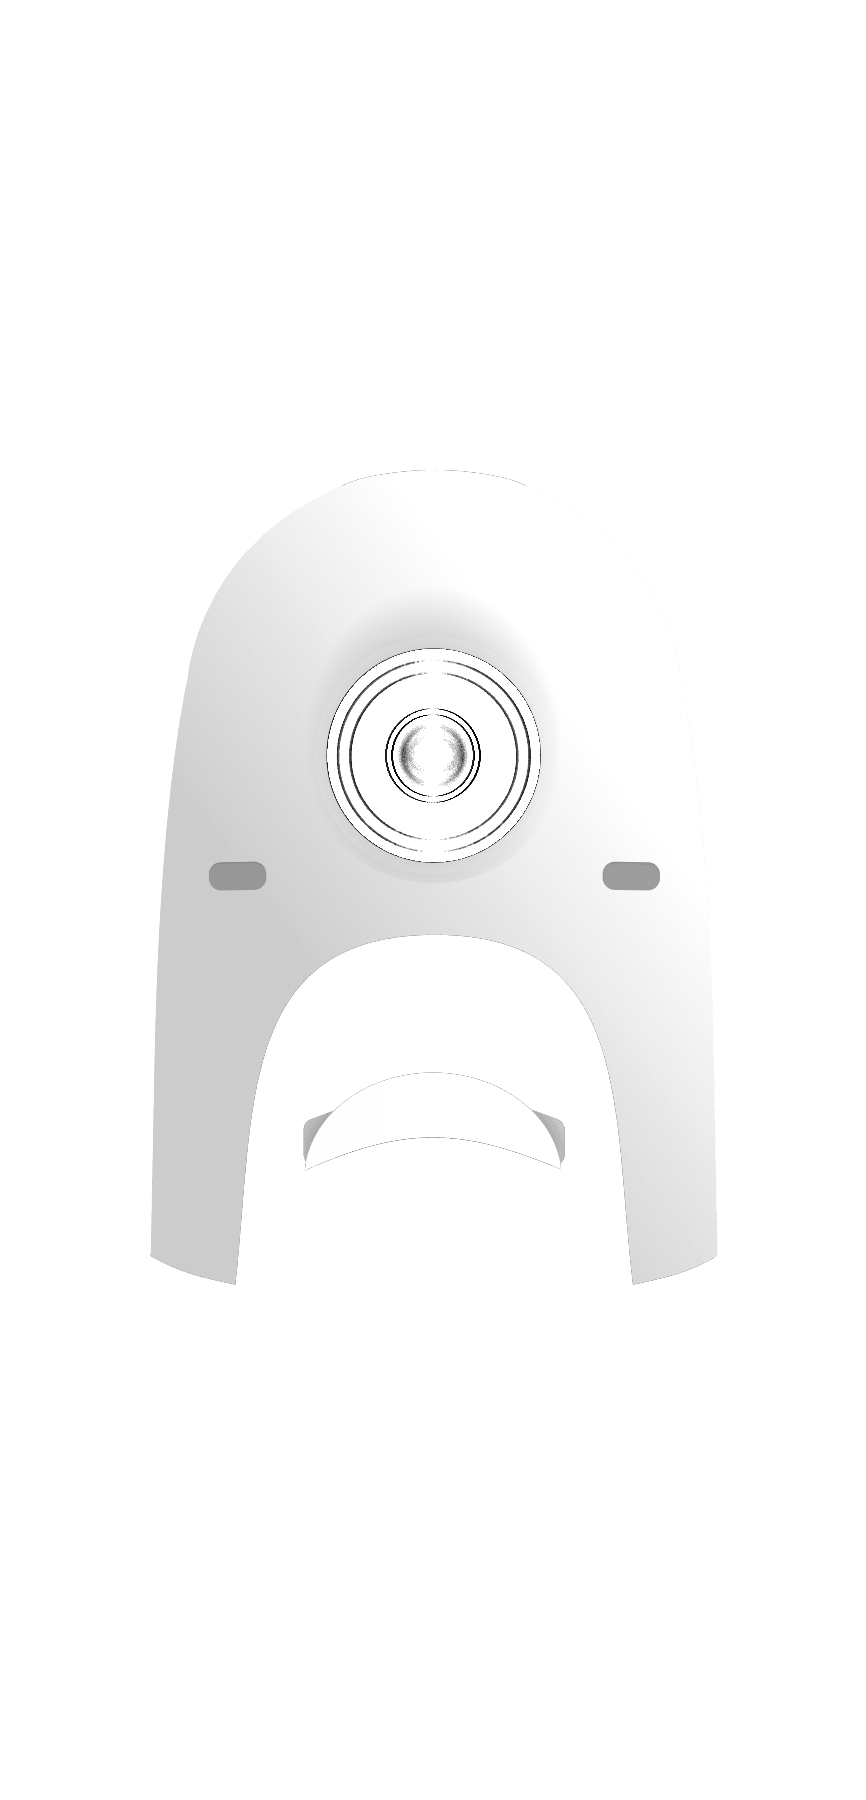
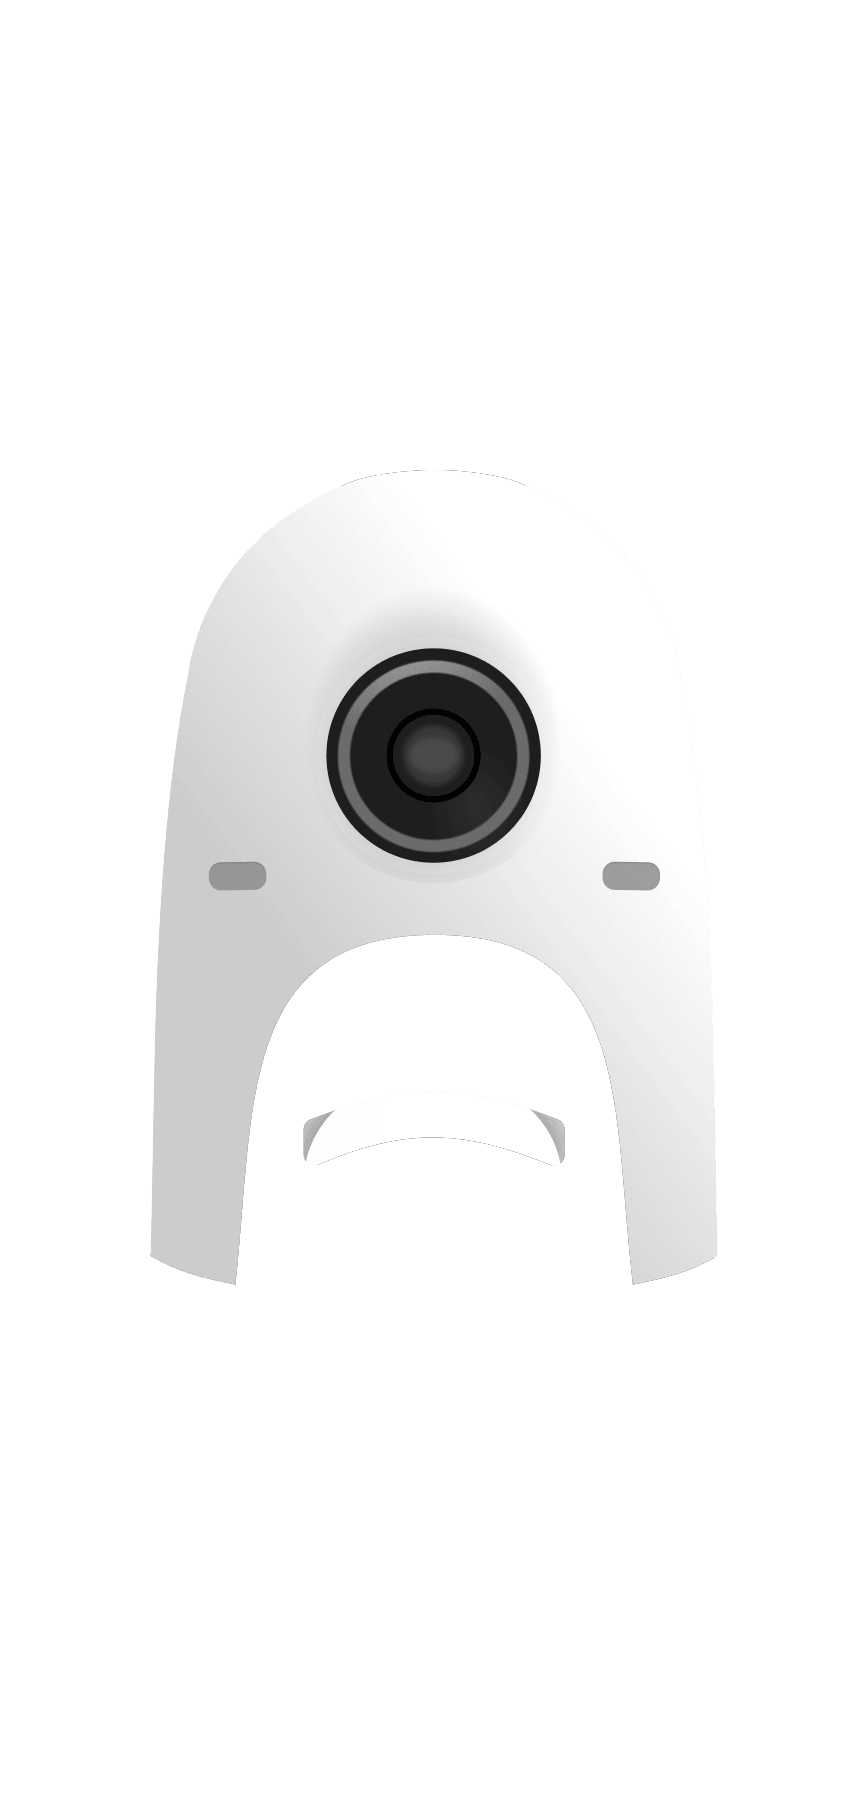
refine(app): upgrade front artwork detail (librescoot-jluu)

Changed region(s): [[0.3741, 0.3422, 0.6236, 0.4978]]

diff --git a/test/ui/scooter_side_visual_test.dart b/test/ui/scooter_side_visual_test.dart
@@ -90,6 +90,34 @@ void main() {
     expect(find.byKey(const ValueKey('custom-paint-matte-layer')), findsNothing);
   });
 
+  testWidgets('keeps lights and details above the matte finish', (tester) async {
+    await tester.pumpWidget(
+      const MaterialApp(
+        home: RenderedScooterArtwork(
+          view: ScooterArtworkView.front,
+          color: '#202020',
+          matte: true,
+          height: 160,
+        ),
+      ),
+    );
+
+    final stack = tester.widget<Stack>(
+      find.descendant(
+        of: find.byType(RenderedScooterArtwork),
+        matching: find.byType(Stack),
+      ),
+    );
+    final matteIndex = stack.children.indexWhere(
+      (child) => child.key == const ValueKey('custom-paint-matte-layer'),
+    );
+    final detailsIndex = stack.children.indexWhere(
+      (child) => child.key == const ValueKey('scooter-artwork-details'),
+    );
+    expect(matteIndex, greaterThanOrEqualTo(0));
+    expect(detailsIndex, greaterThan(matteIndex));
+  });
+
   testWidgets('can omit the independently rendered ground shadow', (tester) async {
     await tester.pumpWidget(
       const MaterialApp(

diff --git a/lib/ui/widgets/rendered_scooter_artwork.dart b/lib/ui/widgets/rendered_scooter_artwork.dart
@@ -38,13 +38,16 @@ class RenderedScooterArtwork extends StatelessWidget {
             key: const ValueKey('scooter-ground-shadow'),
             child: _image('images/scooter/${_prefix}_shadow.png'),
           ),
-        _image('images/scooter/${_prefix}_base.png'),
         Positioned.fill(
           key: ValueKey(matte ? 'custom-paint-matte-layer' : 'custom-paint-gloss-layer'),
           child: ColorFiltered(
             colorFilter: ColorFilter.mode(_paintColor, BlendMode.modulate),
             child: _image('images/scooter/${_prefix}_${matte ? 'matte' : 'gloss'}.png'),
           ),
+        ),
+        KeyedSubtree(
+          key: const ValueKey('scooter-artwork-details'),
+          child: _image('images/scooter/${_prefix}_base.png'),
         ),
       ],
     );

diff --git a/tool/build_scooter_artwork.py b/tool/build_scooter_artwork.py
@@ -15,13 +15,61 @@ from PIL import Image
 
 SIZES = {"front": (866, 1800), "side": (2110, 1738)}
 SOURCE_COLORS = {"matte": "#A4A4A4", "gloss": "#F9F9F9"}
+FRONT_MASTER_SIZE = (866, 1668)
+FRONT_MASTER_TOP = 86
 
 
 def rgba(path: Path) -> np.ndarray:
     return np.asarray(Image.open(path).convert("RGBA"), dtype=np.float32)
 
 
+def pad_front_master(image: np.ndarray) -> np.ndarray:
+    padded = np.zeros((SIZES["front"][1], SIZES["front"][0], 4), dtype=image.dtype)
+    padded[FRONT_MASTER_TOP : FRONT_MASTER_TOP + FRONT_MASTER_SIZE[1]] = image
+    return padded
+
+
+def render_svg_elements(
+    tree: ET.ElementTree,
+    elements: list[ET.Element],
+    size: tuple[int, int],
+) -> np.ndarray:
+    root = copy.deepcopy(tree.getroot())
+    definitions = next(child for child in root if child.tag.rsplit("}", 1)[-1] == "defs")
+    for child in list(root):
+        root.remove(child)
+    for element in elements:
+        root.append(copy.deepcopy(element))
+    root.append(definitions)
+
+    with tempfile.TemporaryDirectory() as temporary:
+        svg = Path(temporary) / "selection.svg"
+        png = Path(temporary) / "selection.png"
+        ET.ElementTree(root).write(svg, encoding="utf-8", xml_declaration=True)
+        subprocess.run(
+            ["rsvg-convert", "-w", str(size[0]), "-h", str(size[1]), "-o", str(png), str(svg)],
+            check=True,
+        )
+        return rgba(png)
+
+
+def front_master_masks(source: Path) -> tuple[np.ndarray, np.ndarray]:
+    tree = ET.parse(source / "front_master.svg")
+    children = list(tree.getroot())
+    body = copy.deepcopy(children[26])
+    body.set("fill", "white")
+    body.attrib.pop("style", None)
+    fender = copy.deepcopy(list(children[39])[0])
+    fender.set("fill", "white")
+    paint = render_svg_elements(tree, [body, fender], FRONT_MASTER_SIZE)
+    foreground = render_svg_elements(tree, children[42:52], FRONT_MASTER_SIZE)
+    return pad_front_master(paint)[:, :, 3] / 255, pad_front_master(foreground)[:, :, 3] / 255
+
+
 def paint_alpha(source: Path, view: str) -> np.ndarray:
+    if view == "front" and (source / "front_master.svg").exists():
+        return front_master_masks(source)[0]
+
     tree = ET.parse(source / f"{view}_6.svg")
     root = tree.getroot()
     definitions = next(child for child in root if child.tag.rsplit("}", 1)[-1] == "defs")
@@ -63,14 +111,15 @@ def paint_alpha(source: Path, view: str) -> np.ndarray:
 
 
 def shadow_layer(source: Path, view: str, destination: Path) -> np.ndarray:
-    tree = ET.parse(source / f"{view}_6.svg")
+    use_master = view == "front" and (source / "front_master.svg").exists()
+    tree = ET.parse(source / ("front_master.svg" if use_master else f"{view}_6.svg"))
     root = tree.getroot()
     children = list(root)
     for child in children:
         if child is not children[0] and child.tag.rsplit("}", 1)[-1] != "defs":
             root.remove(child)
 
-    width, height = SIZES[view]
+    width, height = FRONT_MASTER_SIZE if use_master else SIZES[view]
     with tempfile.TemporaryDirectory() as temporary:
         shadow_svg = Path(temporary) / "shadow.svg"
         tree.write(shadow_svg, encoding="utf-8", xml_declaration=True)
@@ -90,7 +139,11 @@ def shadow_layer(source: Path, view: str, destination: Path) -> np.ndarray:
         )
         rendered = rgba(rendered_shadow)
 
-    reference = rgba(source / f"{view}_6.png")
+    if use_master:
+        rendered = pad_front_master(rendered)
+        reference = pad_front_master(rgba(source / "front_master@2x.png"))
+    else:
+        reference = rgba(source / f"{view}_6.png")
     visible = (reference[:, :, 3] <= rendered[:, :, 3] + 5) & (rendered[:, :, 3] > 0)
     shadow = np.zeros_like(reference)
     shadow[visible] = reference[visible]
@@ -99,9 +152,14 @@ def shadow_layer(source: Path, view: str, destination: Path) -> np.ndarray:
 
 
 def tone_layer(source: Path, view: str, finish: str, alpha: np.ndarray) -> np.ndarray:
-    source_id = 3 if finish == "matte" else 1
-    image = rgba(source / f"{view}_{source_id}.png")
-    color = SOURCE_COLORS[finish]
+    use_master = view == "front" and finish == "matte" and (source / "front_master@2x.png").exists()
+    if use_master:
+        image = pad_front_master(rgba(source / "front_master@2x.png"))
+        color = "#2F2F2F"
+    else:
+        source_id = 3 if finish == "matte" else 1
+        image = rgba(source / f"{view}_{source_id}.png")
+        color = SOURCE_COLORS[finish]
     rgb = np.array([int(color[index : index + 2], 16) for index in (1, 3, 5)], dtype=np.float32)
     reference_luminance = np.dot(rgb, [0.2126, 0.7152, 0.0722])
     luminance = np.dot(image[:, :, :3], [0.2126, 0.7152, 0.0722])
@@ -118,8 +176,14 @@ def build_view(source: Path, output: Path, view: str) -> None:
     shadow_path = output / f"custom_{view}_shadow.png"
     shadow = shadow_layer(source, view, shadow_path)
 
-    base = rgba(source / f"{view}_1.png")
-    base[:, :, 3] *= 1 - alpha
+    use_master = view == "front" and (source / "front_master@2x.png").exists()
+    if use_master:
+        base = pad_front_master(rgba(source / "front_master@2x.png"))
+        foreground_alpha = front_master_masks(source)[1]
+        base[:, :, 3] *= 1 - alpha * (1 - foreground_alpha)
+    else:
+        base = rgba(source / f"{view}_1.png")
+        base[:, :, 3] *= 1 - alpha
     visible_shadow = (base[:, :, 3] <= shadow[:, :, 3] + 5) & (shadow[:, :, 3] > 0)
     base[visible_shadow] = 0
     Image.fromarray(np.rint(base).astype(np.uint8), "RGBA").save(
